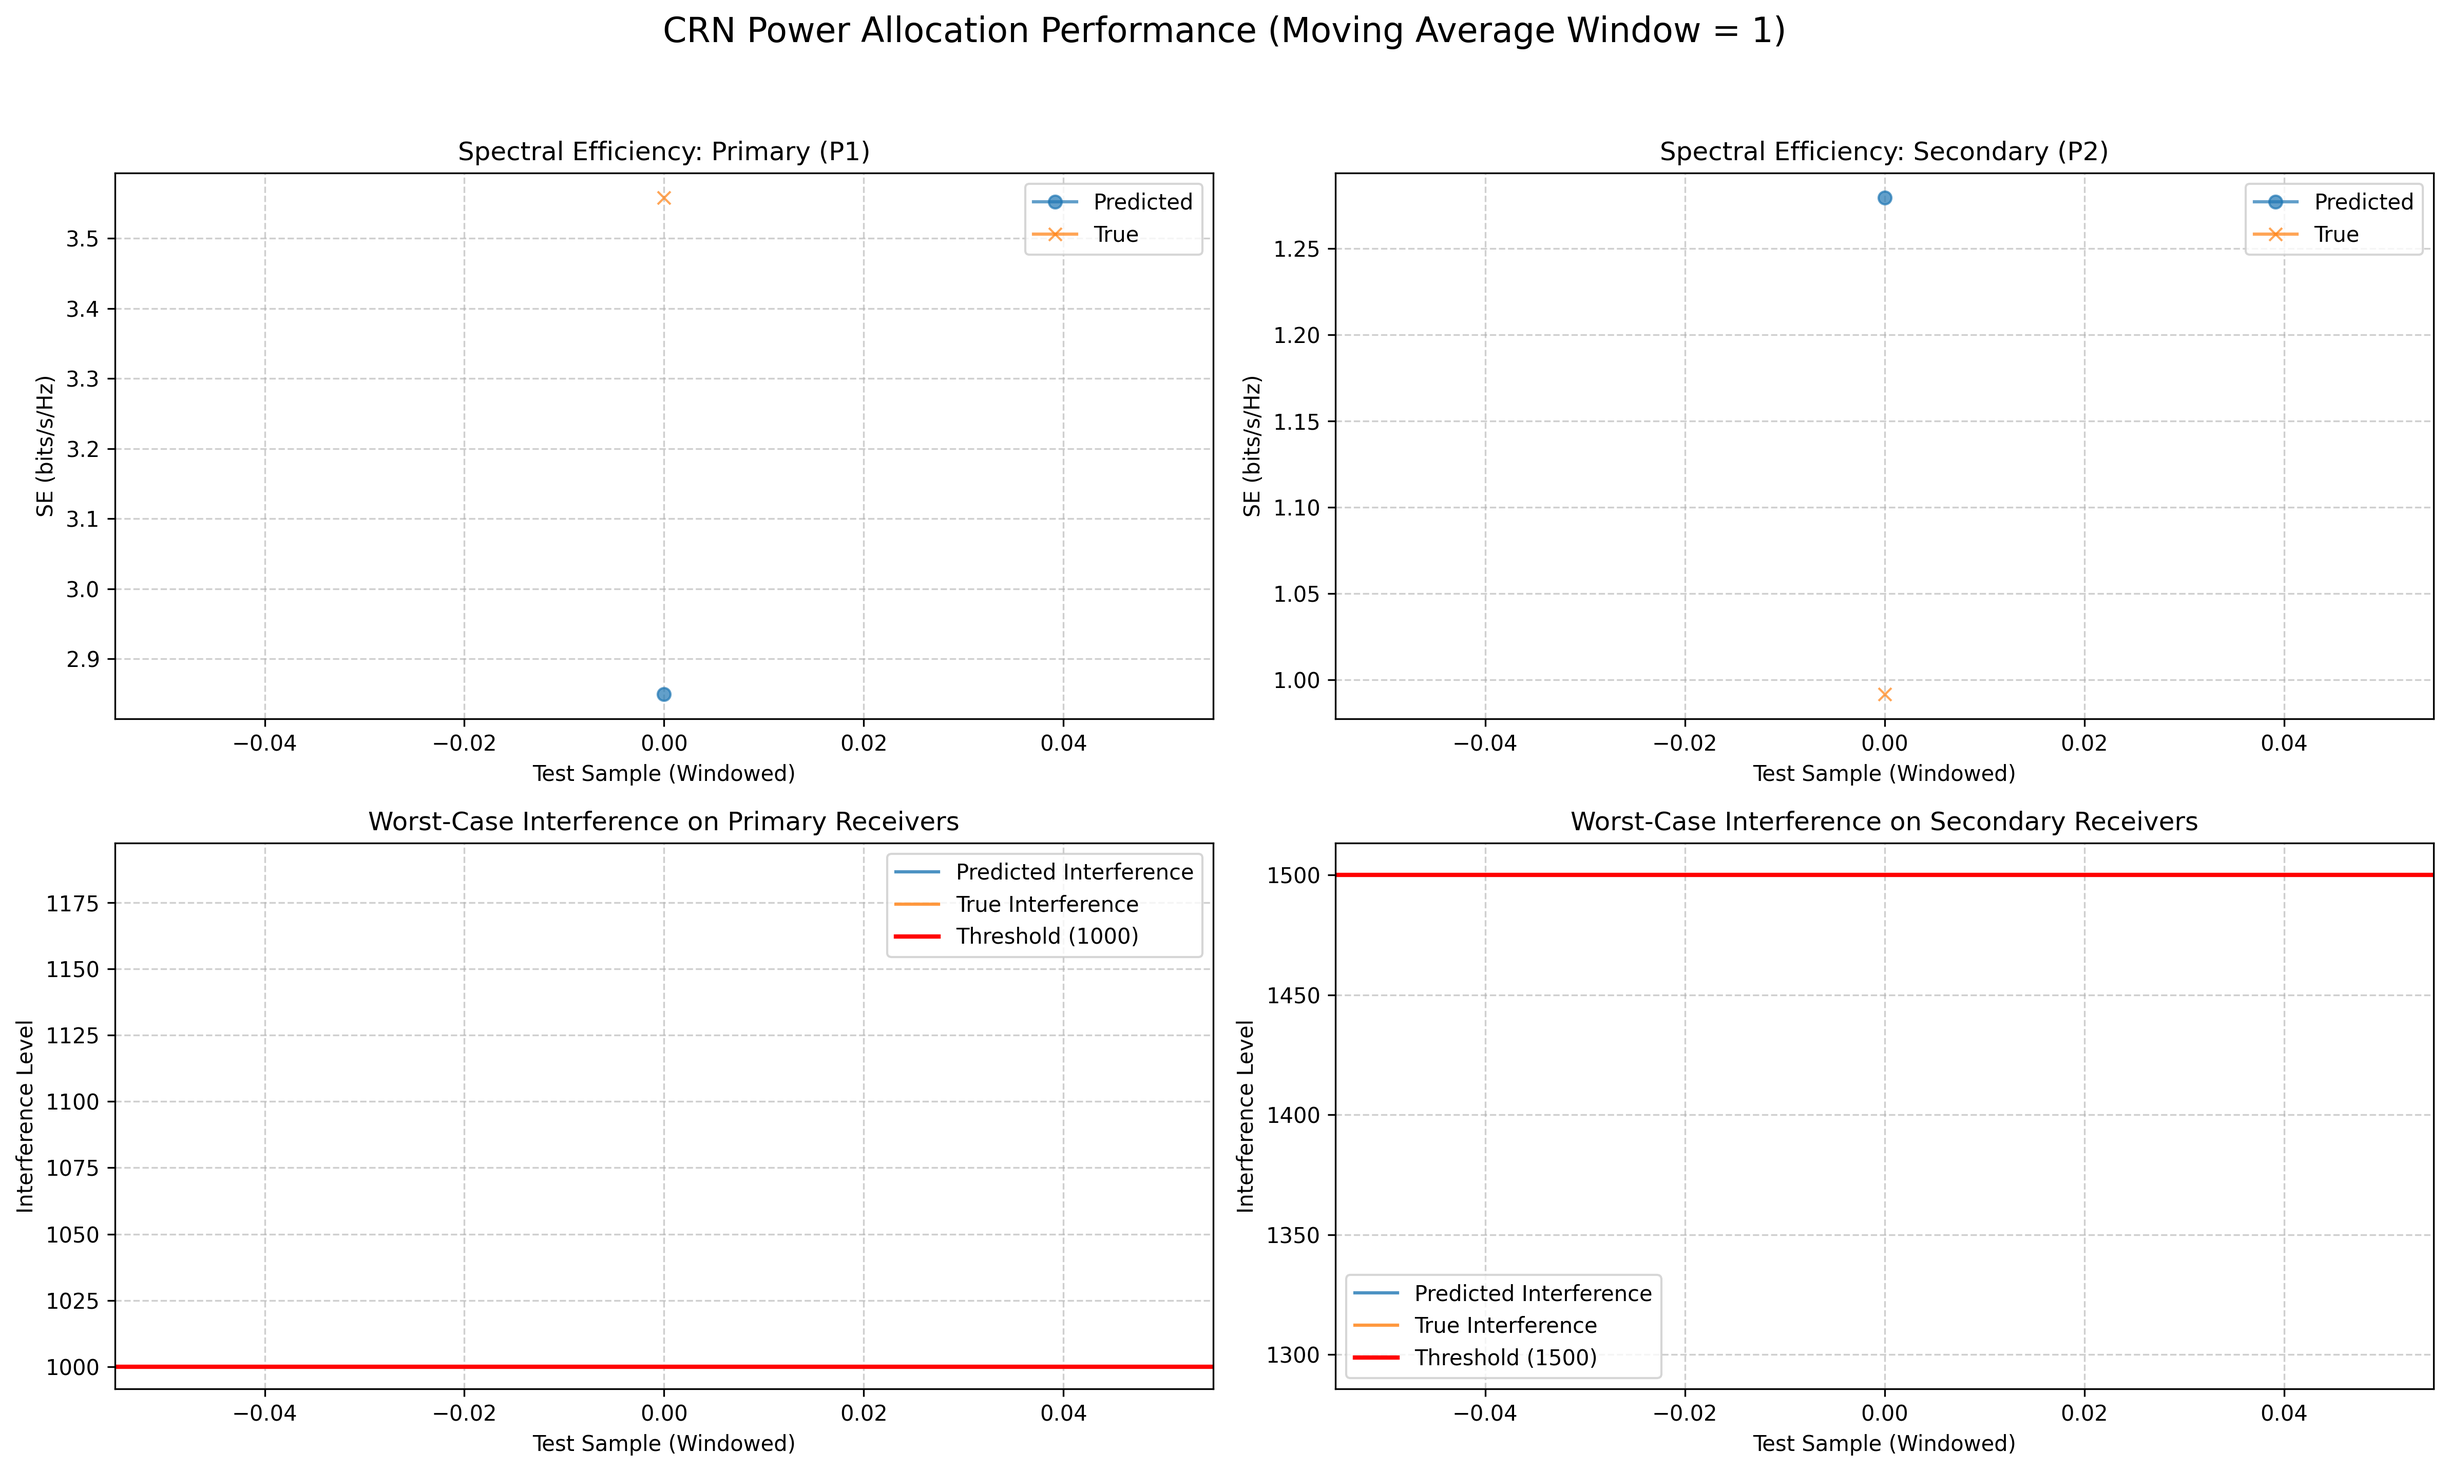
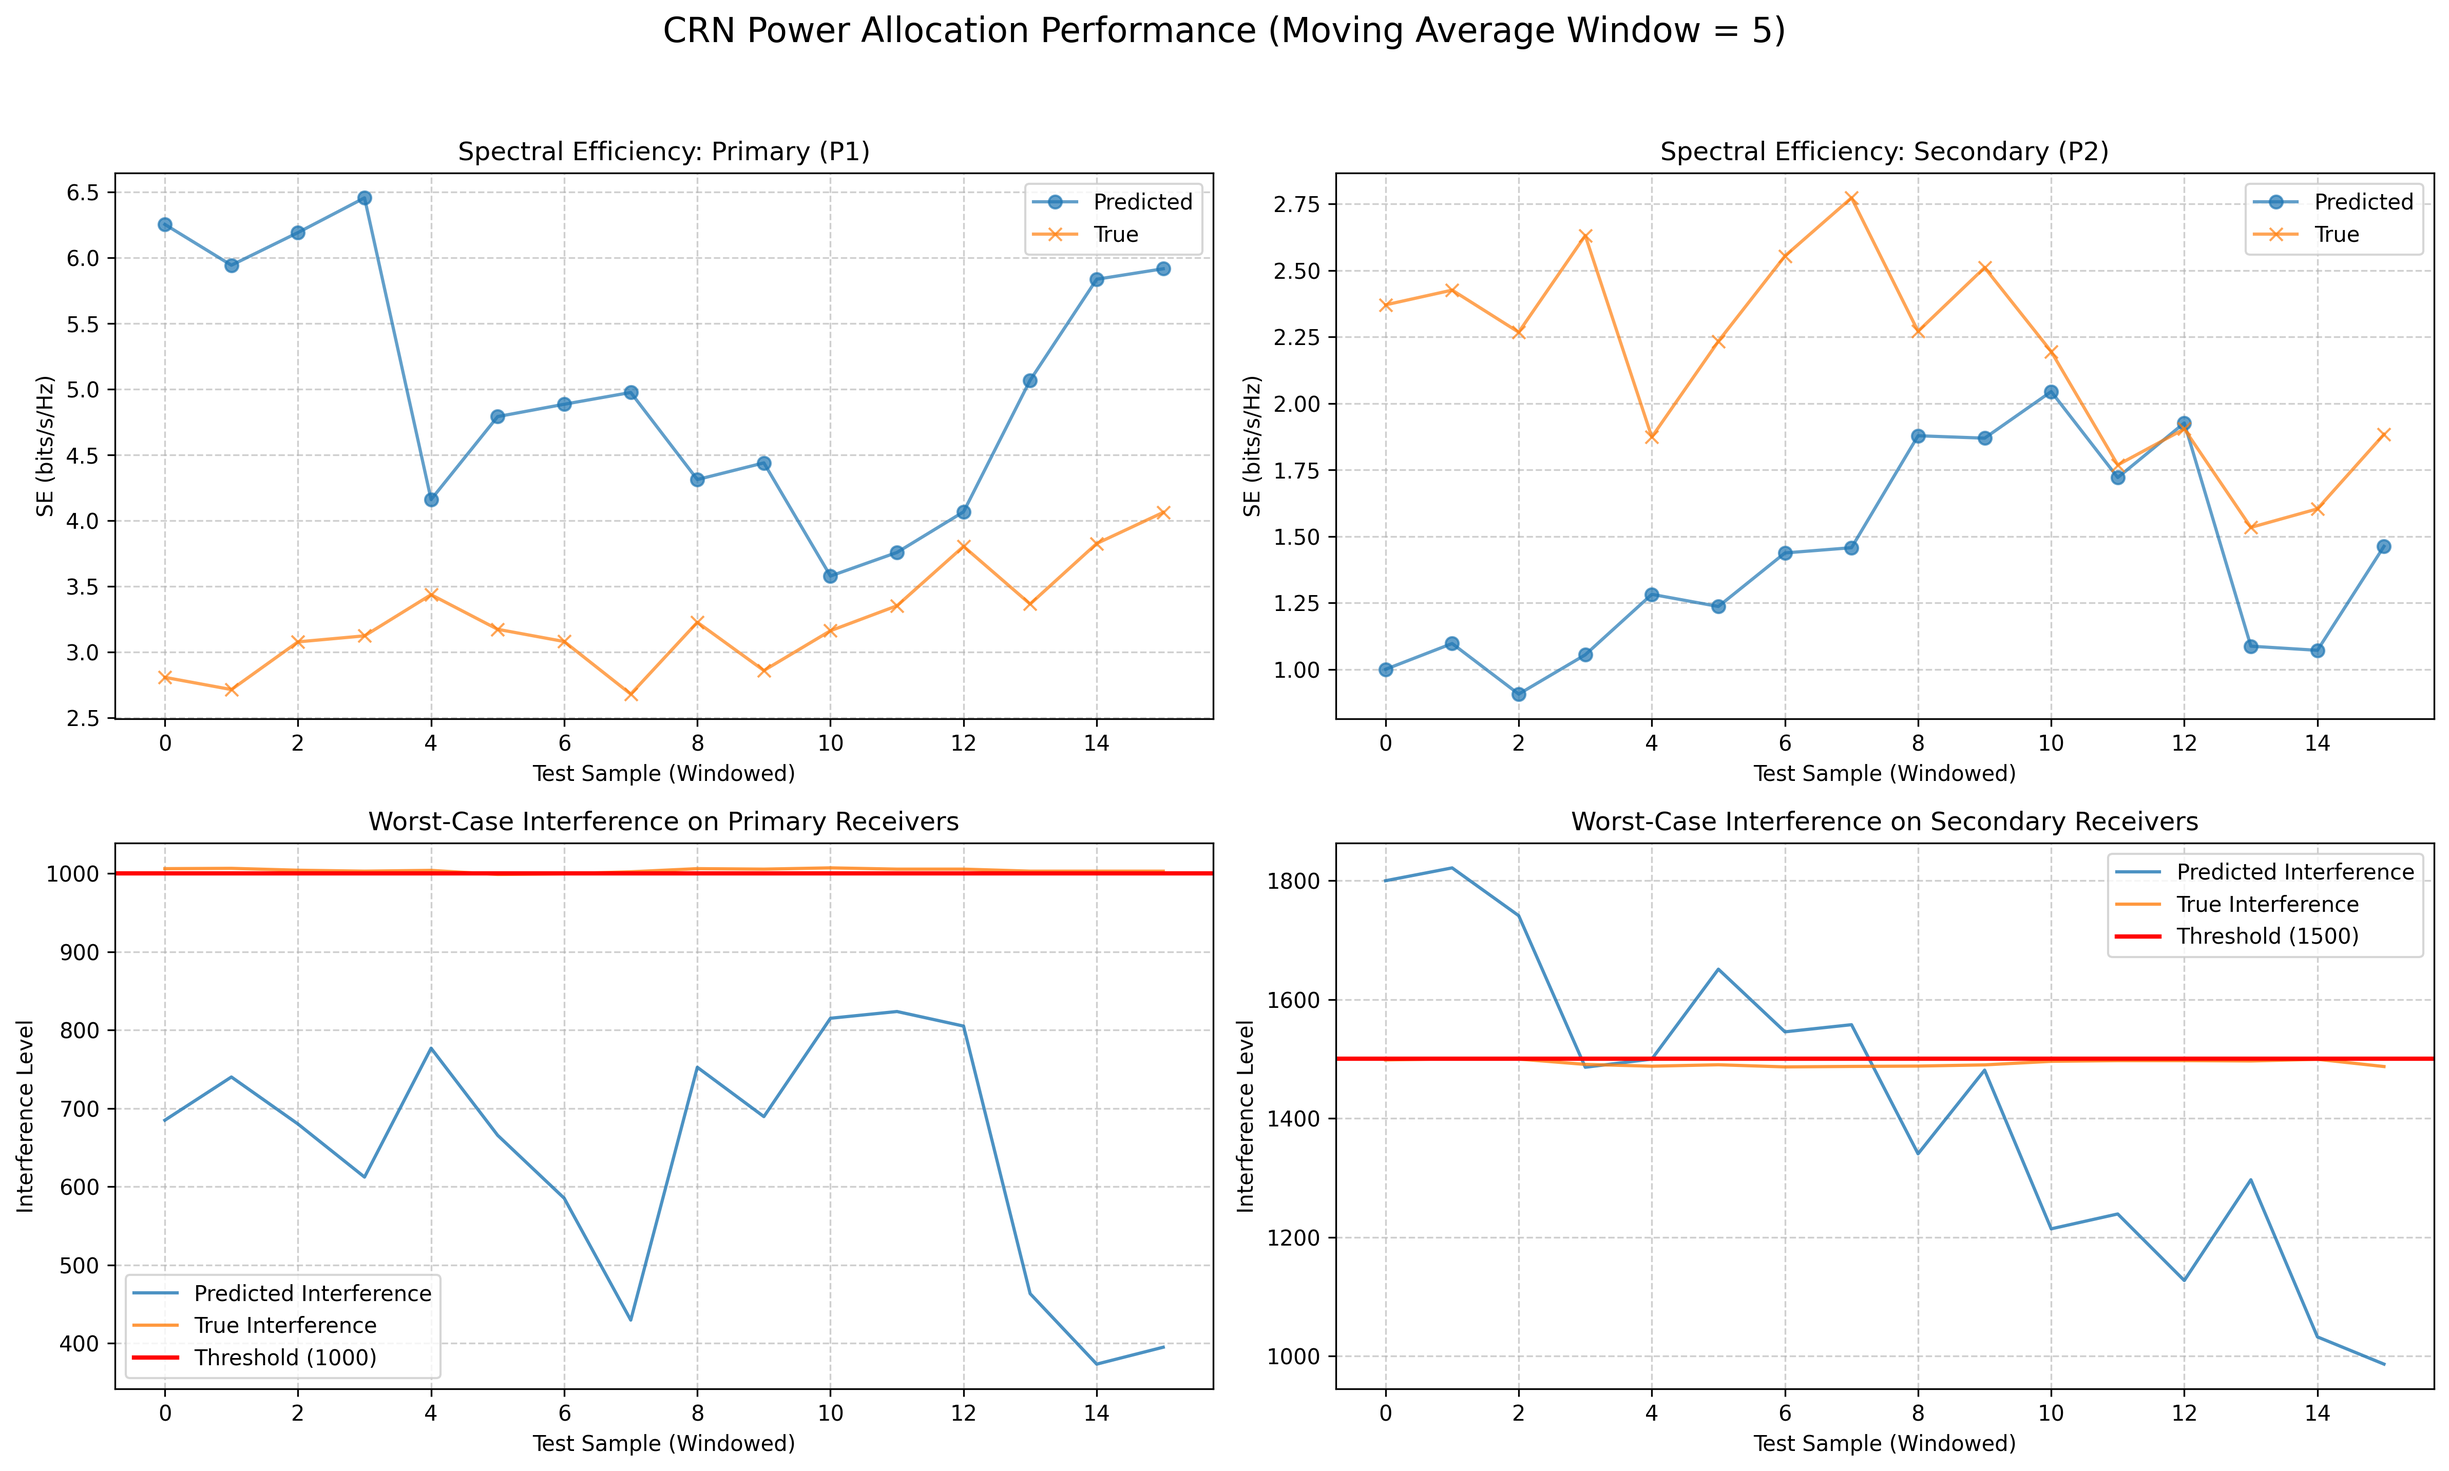
wow

diff --git a/5Agents_work_on_power_alloc/realistic_p1_p2_dynamic.py b/5Agents_work_on_power_alloc/realistic_p1_p2_dynamic.py
@@ -373,7 +373,7 @@ app = workflow.compile()
 
 data = gen_channels(100)
 train = data[:80]
-test = data[80:81]
+test = data[80:]
 prompt_primary_allocation, prompt_secondary_allocation = build_prompt(train)
 se1_pred_list, se1_true_list = [], []
 se2_pred_list, se2_true_list = [], []
@@ -419,7 +419,6 @@ for i in range(num_tests):
     print(f"Primary Gap: {result['primary_gap']}")
     print(f"Allocation P2 pred: {result['P2']}")
     print(f"Allocation P2 true: {test[i][5]}")
-    print(f"Secondary Gap: {result['secondary_gap']}")
 
     def calc_se(P_target, dir_h, P_interferer, cross_h):
         total_interferer = sum(P_interferer)
